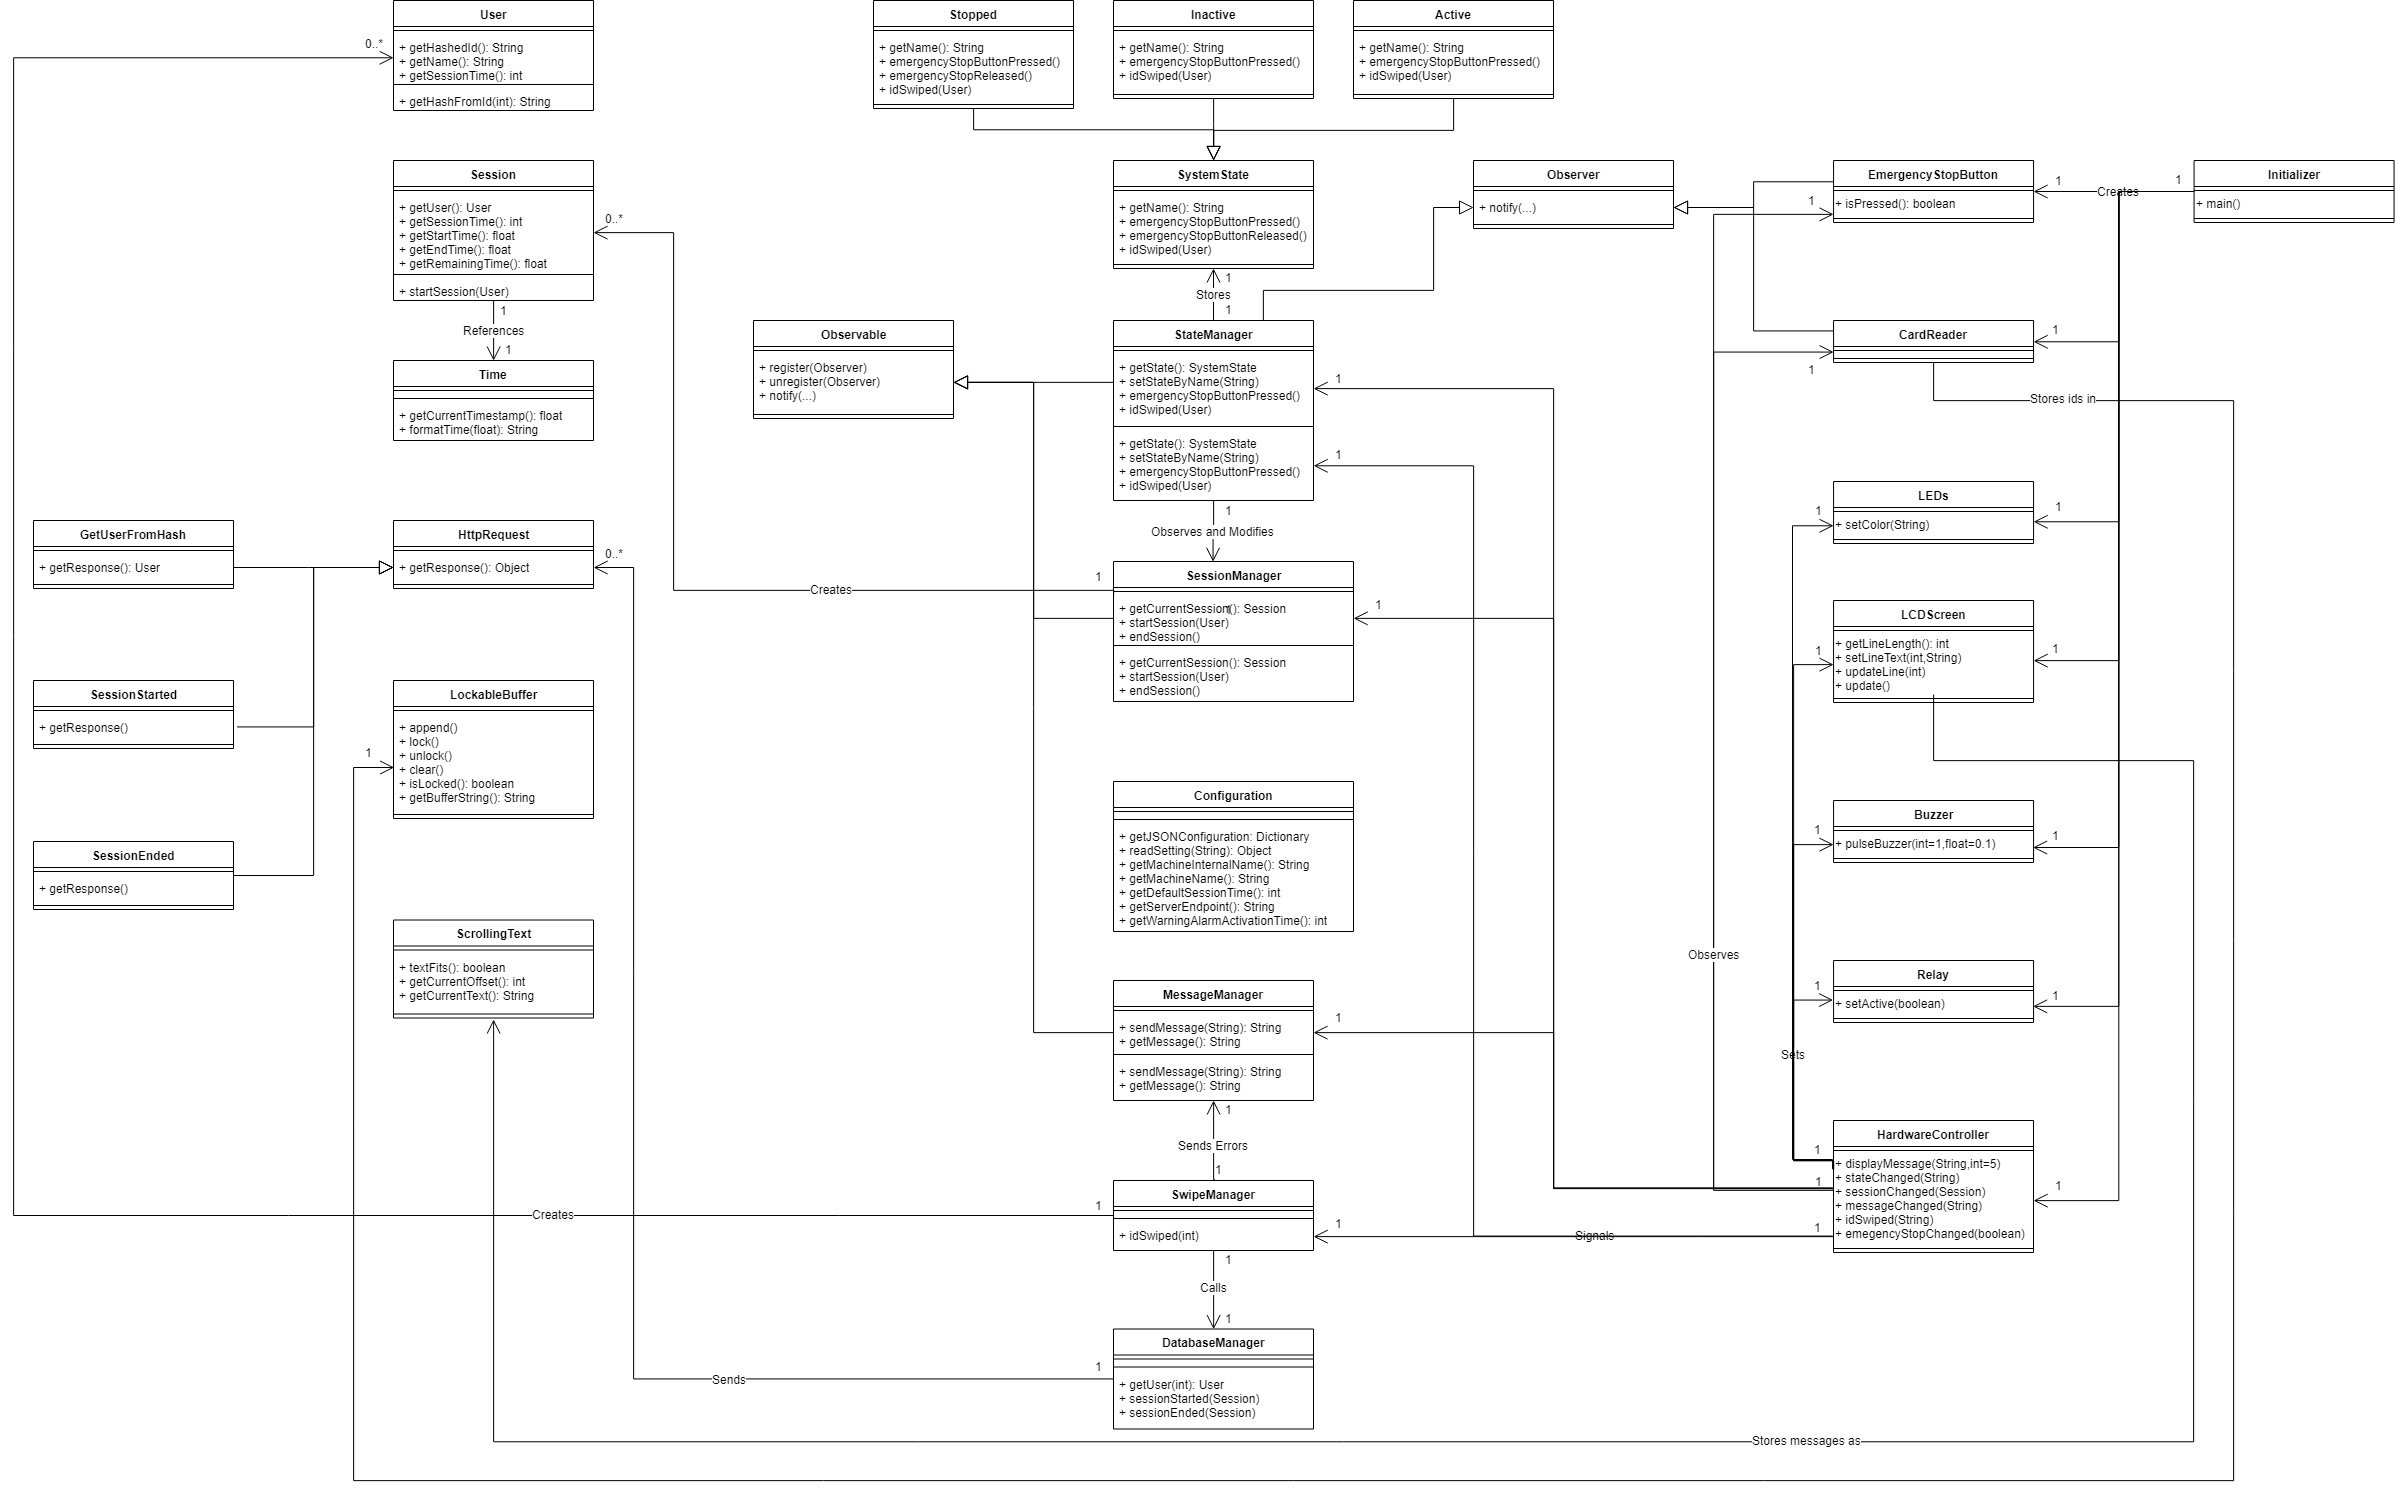
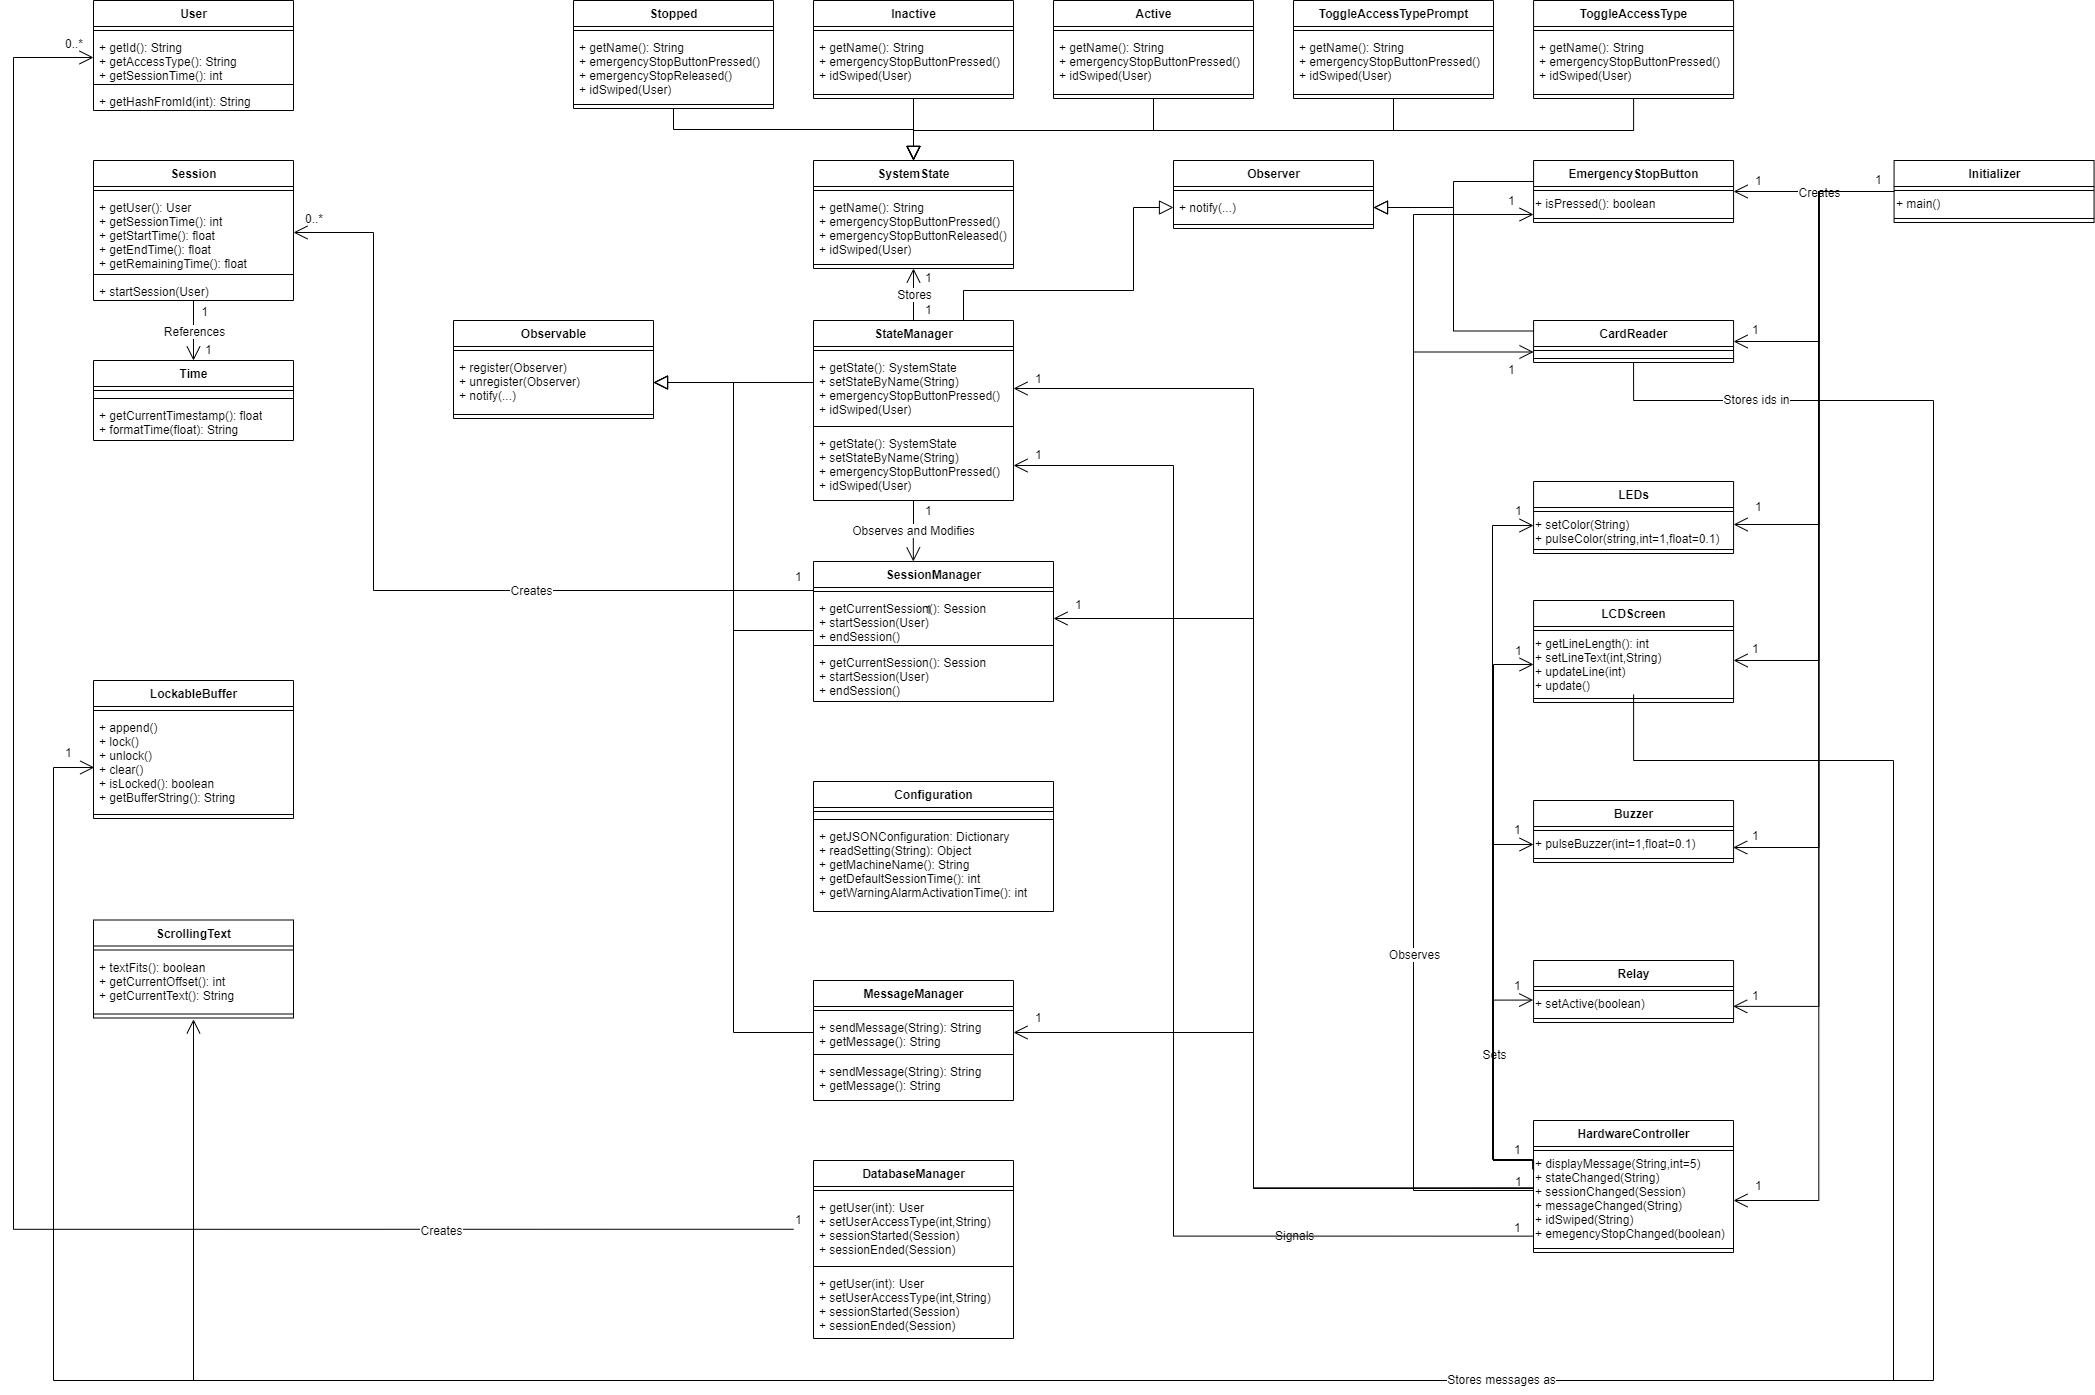
Updated docs.

diff --git a/docs/DesignDoc.md b/docs/DesignDoc.md
@@ -15,15 +15,28 @@ access to machines. The is connected to The Construct @ RIT's
 databases to manage users, store who used machines, and authorize
 users.
 
+## Changes
+
+### Standalone Version
+The original version of the system was intended to be used with
+a remote server. Due to complications with having internet access
+for the Raspberry Pi deployments and high risk of the endpoint
+changing, the system was changed to rely on an internal database.
+An additional accessibility feature of flashing the LEDs when the buzzer
+is invoked was also added.
+
+Minimal restructuring was required for the changes. The database
+calls were already ran through a static database class and the new
+screens for changing the access type of users were added using
+different states. Additionally, unit tests were robustified to
+not rely on delays and increase the code coverage above 90% for
+most classes.
+
 ## Requirements
 
 ### Hardware Requirements
 The required hardware to interface with the system include:
-- An internet connected Raspberry Pi running Raspbian.
-    - Raspberry Pi 3 or Raspberry Pi Zero W.
-    - Any other older Raspberry Pi with a USB WiFi adapter.
-    - Any Raspberry Pi connected to ethernet.
-    - SSH can be enabled for post-deployment changes.
+- Any Raspberry Pi running Raspbian.
 - A mag-stripe reader for reading university id cards. The ones supported are USB and act like a keyboard to the OS.
 - 4 line, 20 character per line (4x20) LCD screen for displaying messages.
 - A relay for external control of the machine. Typically, this will be for the machine's Emergency Stop.
@@ -33,10 +46,8 @@ The required hardware to interface with the system include:
 ### Configuration
 The following need to be able to be configured for the
 machine, including:
-- Machine internal name (ex: ShopSabreCNCRouter)
 - Machine visible name (ex: Shop Sabre CNC Router)
-- Session length if the server is offline
-- Server endpoint
+- Session length
 - Warning alarm activation time in seconds (<0 => no alarm)
 
 ### Software Requirements
@@ -46,11 +57,21 @@ System States:
 |-------|------------|
 | `Stopped` | The machine is disabled with the E-stop pressed. No sessions can be started. |
 | `Inactive` | The machine is disabled with the E-stop not pressed. There is no active session. |
-| `Active` | The machine is enabled, and has an active user. |
+| `Toggle Access Type Prompt` | Prompts the admin to release the E-stop button. This is needed since it runs from the stopped state. |
+| `Toggle Access Type` | Changes the access type of a user between Unauthorized, Authorized, and Admin. |
+
+User Access Type:
+
+| Access Type | Definition |
+|-------|------------|
+| `Unauthorized` | The user is not authorized to use the system. |
+| `Authorized` | The user is authorized to use the system. |
+| `Admin` | The user is authorized to use the system and is able to change if users are authorized. |
 
 E-Stop Button:
 - When the E-Stop is pressed, the relay will be disabled. The system will enter a `Stopped` state.
 - When the E-Stop is released and is in a `Stopped` state, the system will enable the relay and enter either an `Inactive` state.
+    - In the `Toggle Access Type Prompt` state, the state will change to the `Toggle Access Type` state.
 
 Key Switch:
 - The key will be hooked up to the E-Stop.
@@ -63,11 +84,13 @@ LCD Screen:
 
 Mag-Stripe Reader:
 - When the system is in a `Stopped` state, swipes must display a message about the state and ignore the request.
+    - If the user is an admin, the system enters a `Toggle Access Type Prompt` state.
 - Swipes by unregistered users (in main server) should display an error and ignore session requests.
 - When the system is in an `Inactive` state, swipes should create new sessions.
 - When the system is in an `Active` state, swiping with the same id as the session should reset the session time.
 - When the system is in an `Active` state, swiping with a different id should end the current session and start a new session.
-- If the main server is unreachable, an error should be displayed and the fallback session length should be used.
+- When the system is in a `Toggle Access Type Prompt` state, the system enters as `Stopped` 
+- When the system is in a `Toggle Access Type` state, the access type of the swiped user is changed.
 
 Configuration:
 - The configuration must implement the stated configuration fields.
@@ -112,10 +135,8 @@ implementation. The system is divided into the following:
 ### Overview of the Model Tier
 The Model Tier primarily consists of data classes. This 
 includes the following:
-- `User` - Represents a user of the machine. The hash of the
-university id should always be present, but the name can be
-arbitrary. This case will happen for the server, or any method
-to get the name being accessible.
+- `User` - Represents a user of the machine. The
+university id should always be present.
 - `Session` - Represents a "time-boxed" session of a user of the
 machine. When a session is extended, the session should be overridden
 with a new class instead of extending the time limit or changing the
@@ -126,12 +147,6 @@ the observer to either handle or not handle changes in users.
 and can be "locked" to prevent accepting new characters. This is used
 directly by the swipe reader to block new swipes from being accepted
 while a swipe is being processed.
-
-Also includes is the base `HttpRequest` class. The extended classes
-(`GetUserFromHash` and `SessionStarted`) are used to encapsulate
-data storage requests. This is done to abstract the implementation
-for classes that use the requests, as well as allow them to be
-replaced for testing or if the data storage requirements change.
 
 ### Overview of the Hardware (View) Tier
 The Hardware Tier relies on the Controller Tier to know the
@@ -153,8 +168,10 @@ state (i.e. the instantiated models). It also abstracts
 the implementation requirements for the Hardware Tier.
 The primary "managers" that store a state, and also
 extend the `Observable` class include:
+- `DatabaseManager` - Handles getting user information
+from the centralized database.
 - `StateManager` - Stores the machine state (`Active`,
-`Inactive`, and `Stopped`) and handles calls that would
+`Inactive`, `Stopped`, etc) and handles calls that would
 trigger changes to the state. This includes the emergency
 stop button being pressed, being released, and an id being
 swiped.
@@ -167,13 +184,6 @@ happens, or if it should be shown for a few seconds.
 
 The secondary "managers" don't store a state, so they
 just act as mediators. This includes the following:
-- `SwipeManager` - Handles ids being swiped as the
-raw number for university ids. It handles interfacing
-with the database to determine if the user is valid,
-and invokes the current `SystemState` if the user 
-is able to start a session.
-- `DatabaseManager` - Handles getting user information
-from the centralized database on the network.
 - `ConfigurationManager` - Reads the configuration. Since the
 configuration can be changed at any point, each call
 will read the current configuration file.
@@ -181,25 +191,37 @@ will read the current configuration file.
 Since states of the system are stored explicitly, the
 states are stored in the controller. These include:
 - `Stopped` - Represents the Emergency Stop being pressed.
-    - Emergency stop is pressed: Nothing happpens (shouldn't happen)
+    - Emergency stop is pressed: Nothing happens (shouldn't happen)
     - Emergency stop is released: Set the state to be `Inactive`
-    - Id is swiped: An error is displayed that the machine is stopped
+    - Id is swiped: An error is displayed that the machine is stopped and the user
+      is not an admin. If the user is automated, set the state to be `Toggle Access Type Prompt`
 - `Inactive` - Represents the Emergency Stop being released, but no session in progress.
     - Emergency stop is pressed: Set the state to be `Stopped`
-    - Emergency stop is released: Nothing happpens (shouldn't happen)
+    - Emergency stop is released: Nothing happens (shouldn't happen)
     - Id is swiped: Starts a new session
 - `Active` - Represents the Emergency Stop being released and a session is in progress.
     - Emergency stop is pressed: End the current state and set the state to be `Stopped`
-    - Emergency stop is released: Nothing happpens (shouldn't happen)
+    - Emergency stop is released: Nothing happens (shouldn't happen)
     - Id is swiped: Overrides the session with the new id
+- `Toggle Access Type Prompt` - Prompts to release the Emergency Stop for toggling user access types.
+    - Emergency stop is pressed: Nothing happens (shouldn't happen)
+    - Emergency stop is released: Set the state to be `Toggle Access Type`
+    - Id is swiped: Set the state to be `Stopped`
+- `Toggle Access Type` - Prompts to release the Emergency Stop for toggling user access types.
+    - Emergency stop is pressed: Set the state to be `Stopped`
+    - Emergency stop is released: Nothing happens (shouldn't happen)
+    - Id is swiped: Cycles the user's access type between `Authorized`, `Admin`, and `Unauthorized`
 
 ### Testing
-
-#### Acceptance Testing
-Acceptance testing is done to ensure functionality works
-outside of unit tests. The spreadsheet used for testing
-is contained in the `tests` directory.
 
 #### Unit Testing
 Unit testing is done with the "PyUnit" / unittest framework.
 Tests are contained in the `tests` directory.
+
+#### Manual Testing
+When possible, the code is tested on physical hardware before
+being deployed to ensure it is functional. If the hardware is not
+available, a hardware emulator is used that presents a graphical user
+interface of the hardware and buttons for swiping ids. Unit testing
+covers all of the system logic, meaning manual testing is only
+intended for testing the hardware interactions.

diff --git a/docs/Setup.md b/docs/Setup.md
@@ -6,8 +6,40 @@
 ## Software
 The software implementation is specific to the to the 
 Raspberry Pi. The system has been validated on the 2B+,
-but should work on any version that has the GPIO pins
-and can have networking.
+but should work on any version that has the GPIO pins.
+
+### Deploy Script
+To speed up deployment, a `Deploy.py` script has been created
+to automate most of the deployment process for Windows. The
+pre-requisites for this include:
+- [Python 3](https://www.python.org/downloads/)
+- An EXT file system driver, like [Ext2Fsd](https://sourceforge.net/projects/ext2fsd/files/) or [extFS by Paragon](https://www.paragon-software.com/business/extfs-for-windows/)
+- [Raspbian Buster Lite](https://www.raspberrypi.org/downloads/raspbian/)
+  - The desktop versions don't work with the deployment script since the
+    process for setting the desktop to CLI wasn't easy to automate.
+
+Start by flashing Raspbian Buster Lite onto the SD card for
+the Raspberry Pi. Check for a guide online on how to do this.
+Before running the deploy script, the pywin32 library is required. It can be 
+installed by running the following in the command line:
+```bash
+pip3 install pywin32
+```
+
+After the SD card is plugged in an recognized, run the Deploy script
+by running it in the command line.
+```bash
+python3 Deploy.py
+```
+
+The deploy script asks for configuration values and the initial
+admin ids as 9-digit university ids. If the system was already
+deployed, the script can update the code, configuration, and admin ids.
+After the script is done, it can be put into the Raspberry Pi. The
+first run can take up over 2 minutes to complete, but should be less
+to start up for future runs. This depends on the speed of the SD card
+and the model of Raspberry Pi.
+
 
 ### Operating System
 The intended operating system for the system is any
@@ -29,16 +61,9 @@ be downloaded is the repository excluding the following:
 To setup the system for a specific machine, `configuraiton.json`
 needs to be modified. The configuration includes the
 following options:
-- InternalName - the name used with HTTP requests.
-- DisplayName - the name displayed to the end user *(currently not used)*
-- DefaultSessionTime - the default session time if the
-server can't be reached. To make the machine not allow
-sessions when the server is unreachable, this should be
-set to 0.
-- ServerEndpoint - the server endpoint used for network requests.
-This must not include a final slash (`/`) or it will cause
-the requests to fail. If the server is local (on the same device)
-either `localhost` or `127.0.0.1` should be used.
+- DisplayName - the name displayed to the end user.
+- DefaultSessionTime - the default session time for an
+authorized user.
 - AlarmActivationTime - the time (in seconds) that the alarm will
 beep for 5 times if the session goes below it. To disable it, this
 number should be set greater than the session time, or set to 0.
@@ -88,4 +113,3 @@ system is treated as an active command. To stop the system, `Ctrl + C` can
 be used to interrupt the command and stop it from executing. This will also
 be need in the desktop environment since `.bashrc` will run the commands
 when opening a terminal window.
-
